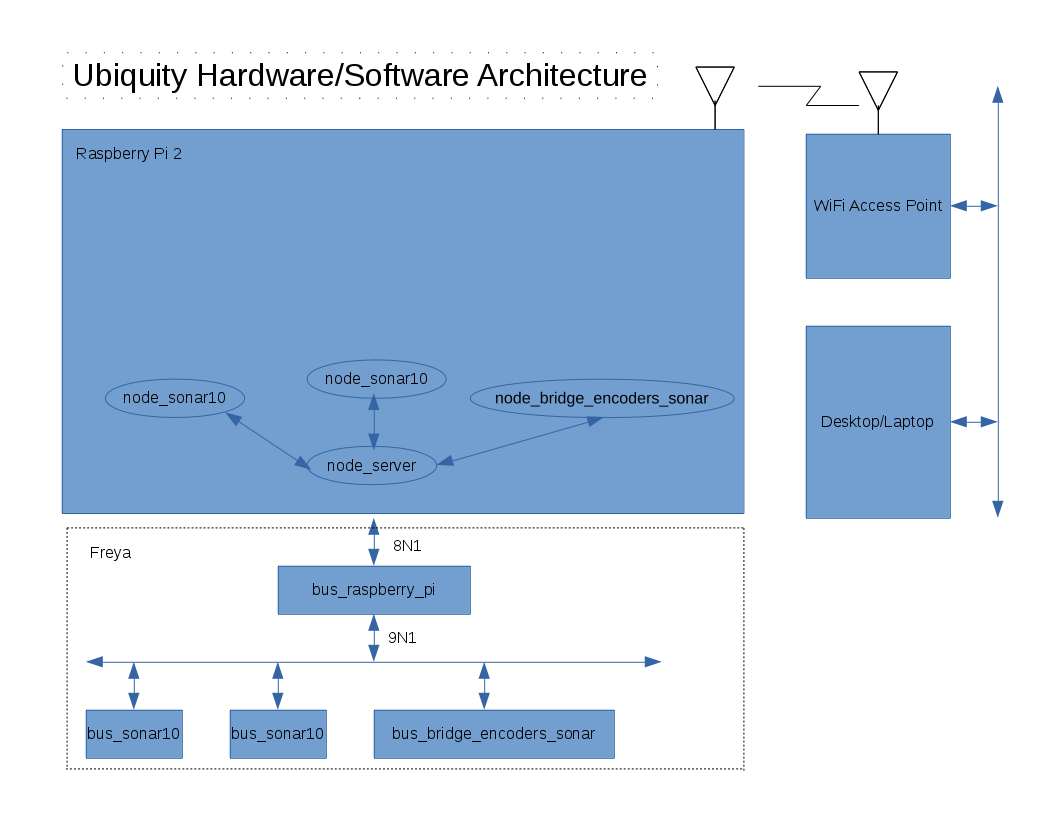
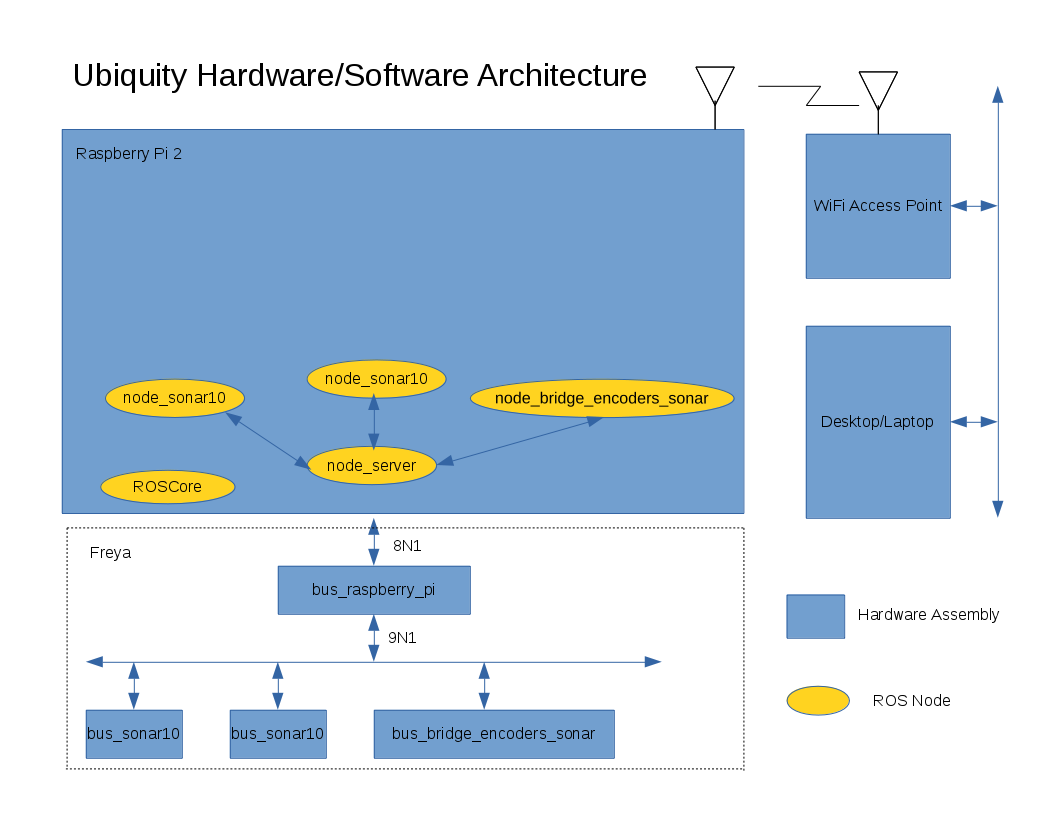
Fixed up HW/SW Architecture diagram.

diff --git a/README.md b/README.md
@@ -346,3 +346,53 @@ diagram is shown below:
 <Img Src="Ubiquity_Hardware_Software_Architecture.png"
 Alt="Ubiquity Hardware/Software Architecture">
 </BlockQuote>
+
+Each light blue rectangle corresponds to a hardware
+assembly.  I the diagram above, the following hardware
+assemblies exist:
+
+* Raspberry Pi 2: This is were ROS is run.  The ROSCore node
+  runs here.
+
+* bus_raspberry_pi: This is a module the interfaces the
+  Raspberry Pi 2 to the bus.
+
+* bus_sonar_10: This module can control up to 10 HC-SR04
+  sonar modules.  There are two of these modules on a Freya.
+
+* bus_bridge_encoders_sonar: This module has the electronics
+  to drive two motors and encoders.  (It also can drive two
+  HC-SR04 sonar modules, but that is not actually used.)
+
+* WiFi Access Point:  This module provides a wireless access
+  point so that the robot can communicate with the desktop/laptop.
+
+* Desktop/Laptop: This is the machine on which software is
+  developed and debugged.  While ROS runs on this machine as well,
+  it accesses the ROSCore node on the Raspberry Pi 2.
+
+The ovals correspond to ROS nodes.  There is a one-to-one
+relationship between the bus hardware boards and ros nodes.
+The `node_server` node is associated with the `bus_raspberry_pi`
+node.
+
+The bus_server_node is a traffic cop that multiplexs messges
+from other ROS nodes to the bus through the bus_raspberry_pi
+hardware module and back.
+
+There are two commuication protocols:
+
+* 8N1: The 8N1 protocol is 1 start bit, 8 data bits,
+  no parity and 1 stop bit.  The Raspberry Pi 2 UART
+  supports this protocol with an on chip UART.
+
+* 9N1: The 9N1 protocol is 1 start bit, 9 data bits,
+  no parity and 1 stop pit.  The all of the modules connected
+  to the hardwar bus talk 9N1 protocol.
+
+The Raspberry Pi2 on chip UART does not support 9N1 mode;
+hence, the requirement for the bus_raspberry_pi module to
+convert between the two protocols.
+
+
+
